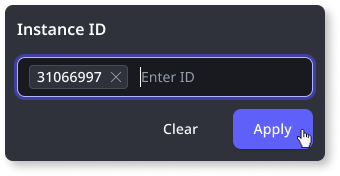
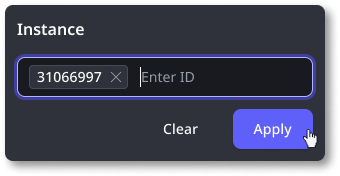
New instance label TK-14880

Changed region(s): [[0.0294, 0.0568, 0.9706, 0.9659], [0.2647, 0.1136, 0.3235, 0.1989]]

diff --git a/src/eap/building-apps/workflows/start-workflow.md b/src/eap/building-apps/workflows/start-workflow.md
@@ -5,7 +5,7 @@ locale: en-us
 guid: 43686a97-7a1c-4ae6-a775-bffb57ac2cd9
 app_type: mobile apps, reactive web apps
 platform-version: odc
-figma:
+figma: https://www.figma.com/design/6G4tyYswfWPn5uJPDlBpvp/Building-apps?m=auto&node-id=6048-7&t=ykwyzPl8nKCnnRYC-1
 audience:
   - mobile developers
   - frontend developers
@@ -18,4 +18,24 @@ coverage-type:
 
 # Start a workflow
 
-A workflow in the Workflow editor always begins with the **Start** node. To trigger the workflow execution, you must always assign an event to the **Start** node.
+A workflow in the Workflow editor always begins with the **Start** node. To trigger the workflow execution, follow these steps:
+
+1. Assign an event to the **Start** node.
+
+    When this event is triggered, the workflow begins.
+
+1. (Optional) Add an [Instance label](#instance-label).
+
+    An instance label uniquely identifies an instance, making it useful when troubleshooting workflow instances and in workflow logs.
+
+    ![Screenshot of instance label expression](images/instance-label-we.png "Instance label")
+
+## Instance label { #instance-label }
+
+You can define the **Instance label** from the **Start** node. The instance label is a descriptive custom identifier that you can assign to a workflow instance. It links a user-friendly business reference to the instance, making it easier to identify and track it. Each time a workflow is triggered, a new instance is created, and the instance label helps uniquely identify that specific instance.
+
+Instance labels make it easier to track and manage individual workflow executions. The instance label is a dynamic expression that accepts values such as the start event's input parameters, runtime properties, and built-in functions. It has access to the **ActivityInstanceId**, **ProcessInstanceId**, and any values from the **Start** node.
+
+Instance labels can help you filter your workflow instances and identify them in log reports. Additionally, if an error occurs in a workflow, the instance label helps pinpoint which specific workflow instance needs attention. For example, in a loan request approval, you might want a custom label that describes the instance ID and the ID of the loan that triggered that workflow. This way, when troubleshooting multiple instances, you can easily identify which instance corresponds to a certain loan request. In that case, you define the instance label as ``"Process with Id" + ProcessInstanceId + "started by a new loan with ID" + Start.NewLoan.LoanId.`` **Note**: The **Instance label** has a maximum length of 100 characters. If your expression is longer than the maximum, it will be truncated at runtime.
+
+![Screenshot of instance label expression](images/instance-label-output-we.png "Instance label")

diff --git a/src/eap/building-apps/workflows/logs.md b/src/eap/building-apps/workflows/logs.md
@@ -1,16 +1,22 @@
 ---
-summary: Introduction to ODC workflow logs. 
-tags: 
-outsystems-tools: 
+summary: Introduction to ODC workflow logs.
+tags: workflow logs, business process management, troubleshooting, process analysis, workflow monitoring
+outsystems-tools:
+  - odc portal
 guid: 3c5d3179-bef9-43ca-9636-90c4d40aa61f
 locale: en-us
 app_type: mobile apps, reactive web apps
-content-type: 
+content-type:
   - conceptual
 platform-version: odc
 figma: https://www.figma.com/design/6G4tyYswfWPn5uJPDlBpvp/Building-apps?m=auto&node-id=6372-10&t=QL4wNRboofdp7zdI-1
+audience:
+  - business analysts
+  - team lead
+  - team manager
+  - project managers
+  - product owners
 ---
-
 # Workflow logs
 
 The ODC portal provides a centralized, detailed view of all activities within a workflow. Workflow logs allow business process owners (BPOs) and developers to analyze and troubleshoot workflows.
@@ -61,11 +67,11 @@ Note: To track the complaint, you must have the workflow instance number.
 
     ![Dropdown menu in ODC Portal showing various workflow options with 'Loan Approval' selected.](images/select-workflow-pl.png "Workflow Selection Dropdown")
 
-1. In the **Instance ID** field, enter the instance ID.
+1. In the **Instance** field, enter the instance ID.
 
     ![Input field in ODC Portal for entering the Instance ID with an example ID entered.](images/instance-id-pl.png "Instance ID Input Field")
 
-    Note: Enter the IDs of the workflows you want to analyze. To identify patterns across specific workflow instances, provide multiple IDs. For example, this can help determine if an instance is part of a recurring pattern rather than an isolated case.
+    **Note**: Enter the IDs of the workflows you want to analyze. To identify patterns across specific workflow instances, provide multiple IDs. For example, this can help determine if an instance is part of a recurring pattern rather than an isolated case.
 
     <div class="info" markdown="1">
 

diff --git a/src/eap/building-apps/workflows/system-entities.md b/src/eap/building-apps/workflows/system-entities.md
@@ -5,7 +5,7 @@ locale: en-us
 guid: dad534b3-39c0-4907-a743-5509d867e111
 app_type: mobile apps, reactive web apps
 platform-version: odc
-figma: https://www.figma.com/design/6G4tyYswfWPn5uJPDlBpvp/Building-apps?node-id=6233-7
+figma: https://www.figma.com/design/6G4tyYswfWPn5uJPDlBpvp/Building-apps?node-id=6675-2
 audience:
   - mobile developers
   - frontend developers
@@ -19,7 +19,6 @@ coverage-type:
 # Workflow entities
 
 The following **system entities** are available in ODC Studio for workflows:
-
 
 * **ActivityDefinition**: Stores the definition of each activity as specified in the workflow editor.
 
@@ -43,9 +42,9 @@ The following **static entities** are available in ODC Studio for workflows:
 
 ## Workflow entity relationships 
 
-The following diagram illustrates the relationship between the entities that are available for workflows. 
-                                                                       
-![Diagram illustrating the relationships between workflow entities](images/workflow-entities-odcs.png "Workflow entity relationships")
+The following diagram illustrates the relationship between the entities that are available for workflows.
+
+![Diagram illustrating the relationships between workflow entities](images/workflow-entities-relationship-odcs.png "Workflow entity relationships")
 
 ## Related resources
 
